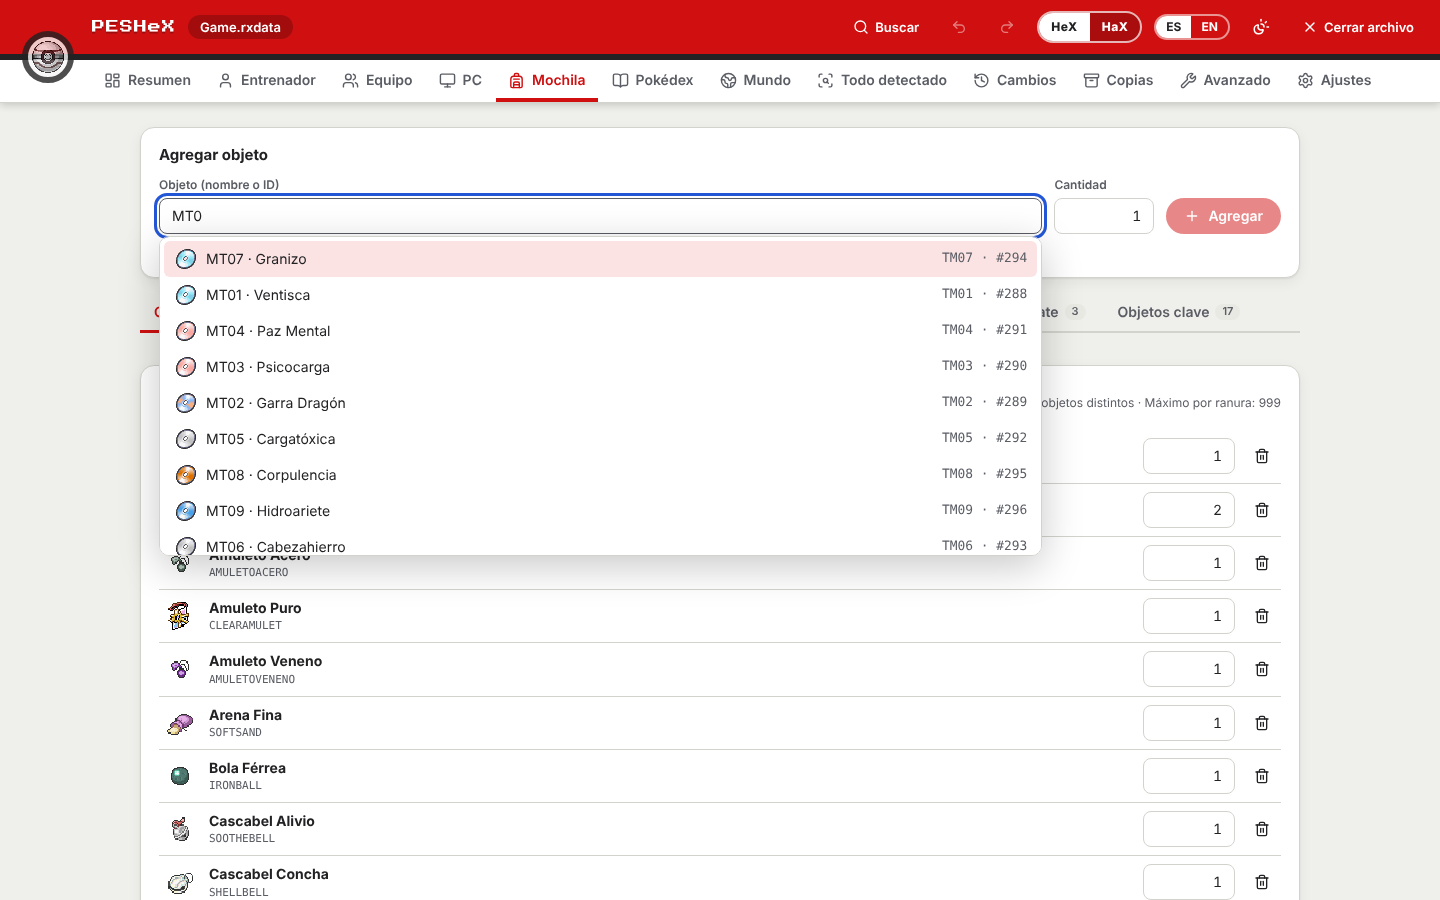
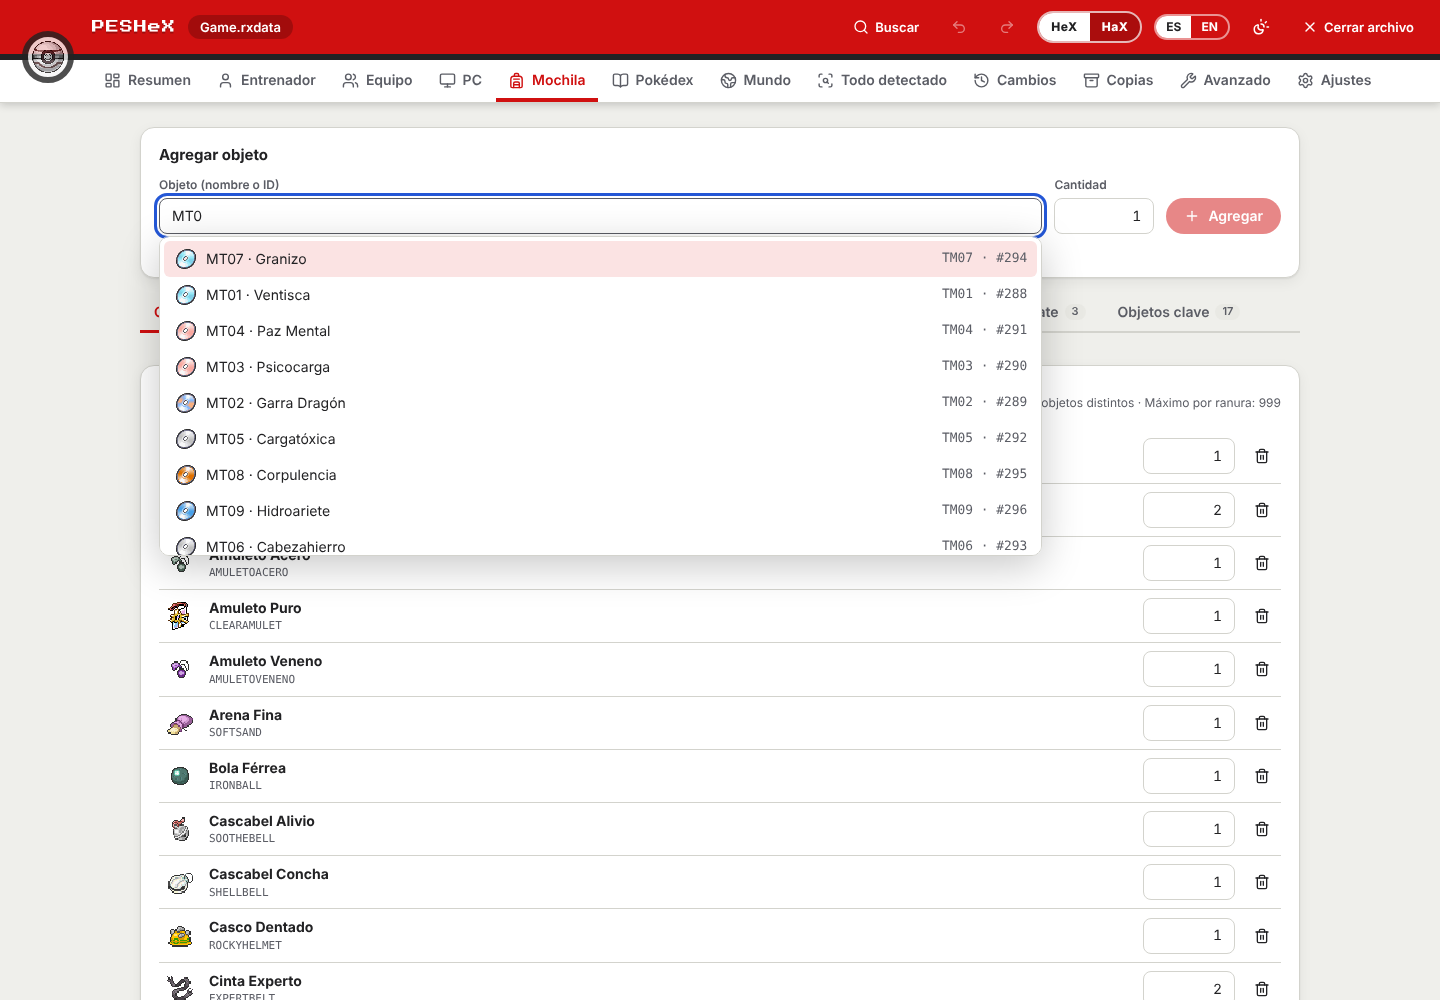
docs: capturas más altas y ficha de la Pokédex sobre la lista completa

Changed region(s): [[0.0, 0.0, 1.0, 1.0], [0.7812, 0.4978, 0.9062, 1.0]]

diff --git a/e2e/docs.spec.ts b/e2e/docs.spec.ts
@@ -27,8 +27,8 @@ const REAL = (process.env.PESHEX_DOCS_GAME ?? (realGameAvailable("z") ? "z" : "s
 
 /** Qué se enseña en cada captura según el juego (los nombres cambian entre el Z real y el sintético). */
 const DEMO = REAL
-  ? { save: "Game.rxdata", trainer: "Kizuga", editRef: "party/1", palette: "milotic", paletteHit: /Milotic/, dex: "arcanine", dexName: "Arcanine", tm: "MT0" }
-  : { save: "Partida_2.rxdata", trainer: "Furikita", editRef: "party/1", palette: "grillita", paletteHit: /Grillita/, dex: "torrac", dexName: "Gatito Fuego", tm: "pot" };
+  ? { save: "Game.rxdata", trainer: "Kizuga", editRef: "party/1", palette: "milotic", paletteHit: /Milotic/, dexName: "Arcanine", tm: "MT0" }
+  : { save: "Partida_2.rxdata", trainer: "Furikita", editRef: "party/1", palette: "grillita", paletteHit: /Grillita/, dexName: "Gatito Fuego", tm: "pot" };
 
 test("capturas del README con la carpeta del juego analizada", async ({ page }) => {
   test.setTimeout(300_000);
@@ -41,7 +41,7 @@ test("capturas del README con la carpeta del juego analizada", async ({ page }) 
 
   env = await setup(page, DEMO.save);
   await serveGameAssets(page);
-  await page.setViewportSize({ width: 1440, height: 900 });
+  await page.setViewportSize({ width: 1440, height: 1000 });
 
   // Ruta estable y corta para que la captura de Ajustes no enseñe un directorio temporal aleatorio.
   const base = path.join(os.tmpdir(), "peshex-docs");
@@ -92,13 +92,15 @@ test("capturas del README con la carpeta del juego analizada", async ({ page }) 
   await shot("pc-acciones");
   await page.keyboard.press("Escape");
 
-  // Hoja de edición ancha: stats base, deslizadores, Poder oculto y estadísticas totales
+  // Hoja de edición ancha: stats base, deslizadores, Poder oculto y EV (más alto para que quepan más secciones)
   await info.getByRole("button", { name: "Editar", exact: true }).click();
   const drawer = page.getByRole("dialog");
   await expect(drawer.getByTestId("base-stats")).toBeVisible();
   await drawer.getByRole("tab", { name: "IV y EV" }).click();
   await expect(drawer.getByText(/Poder oculto/).first()).toBeVisible();
+  await page.setViewportSize({ width: 1440, height: 1180 });
   await shot("editor");
+  await page.setViewportSize({ width: 1440, height: 1000 });
   await page.keyboard.press("Escape");
 
   // Mochila: «Agregar objeto» arriba con el selector (nombre, icono e id)
@@ -114,8 +116,10 @@ test("capturas del README con la carpeta del juego analizada", async ({ page }) 
   await nav("Pokédex");
   await expect(page.getByText(/\d+ vistos · \d+ capturados/)).toBeVisible();
   await shot("pokedex");
-  await page.getByRole("textbox", { name: "Buscar por nombre o número" }).fill(DEMO.dex);
-  await page.getByRole("button", { name: `Ver la ficha de ${DEMO.dexName}` }).click();
+  // La ficha se abre sobre la lista completa (sin filtrar), con la especie elegida a la vista y resaltada.
+  const row = page.getByRole("button", { name: `Ver la ficha de ${DEMO.dexName}` });
+  await row.evaluate((el) => el.scrollIntoView({ block: "center" }));
+  await row.click();
   await expect(page.getByTestId("species-sheet")).toBeVisible();
   await shot("pokedex-ficha");
 
